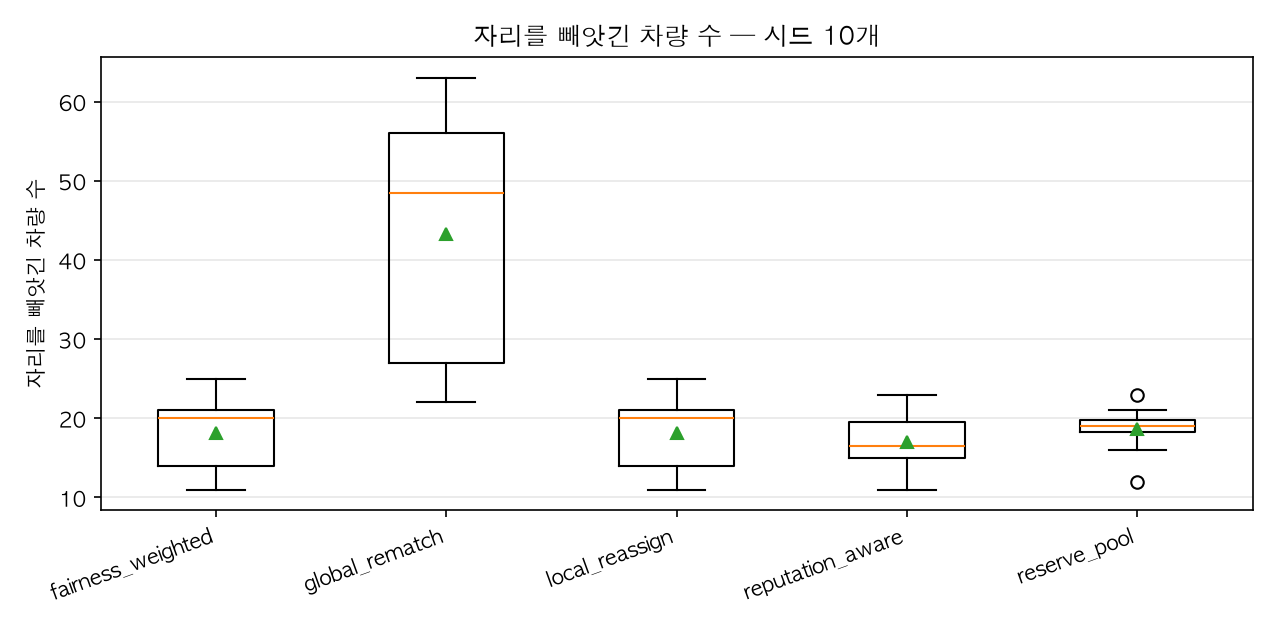
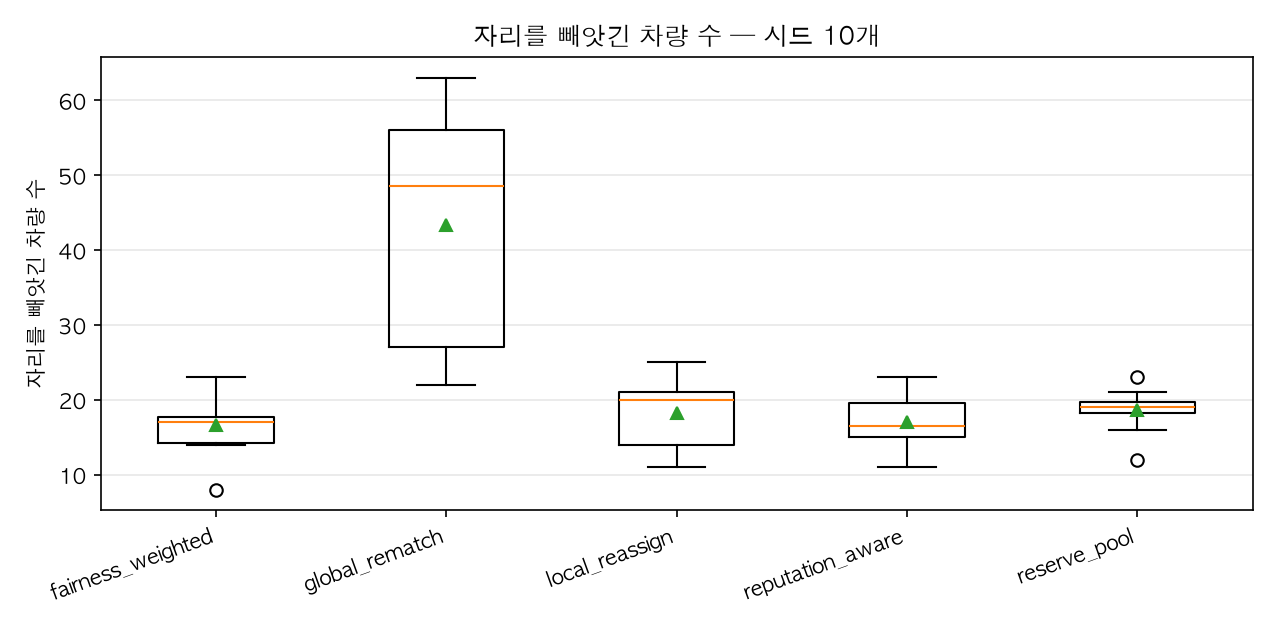
docs: 평판 조건 실험 결과(④) · D-029 (우선권은 자리마다 다른 보정이어야)
- fairness_weighted 를 고치고 다시 돌린 결과를 반영
- repeat_offenders 에서 비로소 세 전략이 갈린다: 피해 차량
  local_reassign 18.2 → reputation_aware 17.0 → fairness_weighted 16.6
- rush_hour 에서는 여전히 사실상 같다 — 이제 버그가 아니라 조건이다

diff --git a/viewer/js/scene.js b/viewer/js/scene.js
@@ -164,11 +164,7 @@ export class Stage {
   follow(getPoint) {
     this._follow = getPoint;
     this._camTween = null;
-    // 진행 중인 시선 이동을 반드시 끈다. 안 끄면 `update()` 에서 그쪽이 나중에
-    // 실행되어 추적 타깃을 덮어쓴다 — 차를 바꿔 클릭하면 카메라가 주차장 한복판을
-    // 한 번 들렀다 간다.
-    this._recenter = null;
-    this._lookTo = null;
+    this._clearMoves();
     this.cameraMode = "follow";
   }
 
@@ -178,6 +174,19 @@ export class Stage {
     this._recenter = { from: this.controls.target.clone(), t: 0 };
   }
 
+  /**
+   * 진행 중인 시선 이동을 전부 끈다.
+   *
+   * **새 목적지를 정할 때는 반드시 먼저 부른다.** `update()` 가 `_lookTo` 보다
+   * `_recenter` 를 나중에 처리하므로, 둘이 함께 살아 있으면 매 프레임 중앙 복귀가
+   * 이긴다 — 차를 따라가다가 사건 줄을 누르면 카메라가 그 자리가 아니라 주차장
+   * 한복판을 보게 된다. 두 번 같은 실수를 했다.
+   */
+  _clearMoves() {
+    this._recenter = null;
+    this._lookTo = null;
+  }
+
   get following() {
     return Boolean(this._follow);
   }
@@ -185,6 +194,7 @@ export class Stage {
   /** 시선을 한 지점으로 부드럽게 옮긴다. 사건이 난 자리를 보여줄 때 쓴다. */
   lookAtPoint(x, y) {
     this.unfollow();
+    this._clearMoves();          // 중앙 복귀는 취소한다 — 갈 곳이 따로 있다
     this._lookTo = { from: this.controls.target.clone(), to: new THREE.Vector3(x, 0, -y), t: 0 };
   }
 

diff --git a/docs/HANDOFF.md b/docs/HANDOFF.md
@@ -111,8 +111,8 @@ python -m sim.experiments.report runs/<run_id>
 | `reserve_pool` | **34.5초** | **63.7초** | 169.6 | **5.2** | 0 |
 | `chain_shift` | 38.3초 | 78.6초 | 178.6 | 5.8 | 2.8 |
 | `local_reassign` | 38.7초 | 80.6초 | **181.0** | 6.1 | 0 |
-| `fairness_weighted` | 38.7초 | 80.6초 | 181.0 | 6.1 | 0 |
 | `reputation_aware` | 38.7초 | 80.6초 | 181.0 | 6.1 | 0 |
+| `fairness_weighted` | 38.8초 | 81.3초 | 180.7 | 6.1 | 0 |
 | **`global_rematch`** (기본) | 42.1초 | 91.5초 | 171.1 | **23.0** | **294.6** |
 
 **기본 전략이 가장 나쁩니다. 그리고 그 이유가 이 연구의 이야기입니다.**
@@ -125,13 +125,13 @@ python -m sim.experiments.report runs/<run_id>
 나도 **남의 예약을 건드리지 않습니다.** 대신 그 예비석만큼 처리량을 잃습니다
 (169.6 vs 181.0). 효율과 안정의 상충이 숫자로 나옵니다.
 
-> ⚠ **셋이 같은 숫자인 것은 버그가 아닙니다.** `local_reassign`·`fairness_weighted`·
-> `reputation_aware` 는 이 조건에서 구분되지 않습니다. 재 봤더니 신뢰도가 떨어진
-> 번호판이 220개 중 7개, **두 번 재배정된 차량은 0대**였습니다 — 평판을 쌓을 재료도
-> 우선권을 줄 상습 피해자도 없습니다. 그래서 `repeat_offenders` 시나리오를 따로
-> 만들었습니다 (같은 번호판이 대여섯 번 드나드는 조건, `runs/repeat-offenders`).
-> 발표에서는 둘을 나란히 놓고 **"평판 기반 전략은 평판이 쌓일 조건에서만 의미가
-> 있다"** 로 말하는 편이 정직합니다.
+> ⚠ **셋이 사실상 같은 숫자인 것은 버그가 아니라 조건 때문입니다.** 재 봤더니
+> 신뢰도가 떨어진 번호판이 220개 중 7개, **두 번 재배정된 차량은 0대**였습니다 —
+> 평판을 쌓을 재료도 우선권을 줄 상습 피해자도 없습니다. `fairness_weighted` 는
+> 10개 시드 중 **9개가 `local_reassign` 과 완전히 동일**하고, 평균이 0.1초 움직인
+> 것은 시드 하나 때문입니다.
+>
+> 그래서 `repeat_offenders` 시나리오를 따로 만들었습니다 — 아래 ④ 입니다.
 
 ### ③ 할당 전략 4종 (`rush_hour`, 900초, 복구는 `global_rematch` 고정)
 
@@ -148,7 +148,30 @@ python -m sim.experiments.report runs/<run_id>
   강할 것이라 봤는데(PLAN 4절), 오히려 피해자가 가장 많습니다(34.4). **재확정 자체가
   예약을 흔들기 때문**이고, `global_rematch` 가 나쁜 이유와 정확히 같습니다.
   이 시뮬레이터가 준 가장 뚜렷한 결론이 이것입니다 — **예약을 흔드는 모든 것이
-  강탈의 기회를 만든다.**
+  강탈의 기회를 만든다.** 복구 쪽의 `global_rematch` 와 할당 쪽의
+  `zone_late_binding` 이 서로 다른 이유로 같은 결론에 도달합니다.
+
+### ④ 평판이 쌓이는 조건 (`repeat_offenders`, 1800초, 재방문 85%, 비협조 50%)
+
+같은 번호판이 하루에 대여섯 번 드나드는 조건입니다. 여기서 비로소 셋이 갈립니다.
+
+| 전략 | 평균 소요 | p95 | 주차 완료 | 피해 차량 | 휘말린 재배치 |
+|---|---|---|---|---|---|
+| `fairness_weighted` | 32.8초 | 75.7초 | 425.0 | **16.6** | 0 |
+| `reputation_aware` | 32.6초 | 73.7초 | 426.0 | 17.0 | 0 |
+| `local_reassign` | **32.3초** | 73.3초 | 427.1 | 18.2 | 0 |
+| `reserve_pool` | 32.3초 | **69.0초** | **430.9** | 18.6 | 0 |
+| **`global_rematch`** (기본) | 35.6초 | 85.5초 | 425.1 | **43.3** | **1121.4** |
+
+**"평판 기반 전략은 평판이 쌓일 조건에서만 의미가 있다"** — 이것이 발표에서 할 수
+있는 가장 정직한 말입니다. `rush_hour` 에서 아무 차이가 없던 두 전략이, 단골이
+많아지자 10개 시드 중 8~9개에서 갈라지고 피해 차량을 줄입니다 —
+`reputation_aware` 가 −7%, `fairness_weighted` 가 **−9%**. 대신 평균 소요를
+0.3~0.5초 내줍니다 —
+**효율을 조금 팔아 최악을 줄이는 거래**이고, 그것이 이 두 전략의 설계 의도입니다.
+
+`global_rematch` 는 여기서 더 나빠집니다. 피해 차량이 **2.4배**, 휘말린 재배치가
+1121건입니다. 사고가 잦아질수록 "모두가 조금씩 양보"의 대가가 초선형으로 커집니다.
 
 ---
 

diff --git a/docs/DECISIONS.md b/docs/DECISIONS.md
@@ -785,3 +785,43 @@
 **누계를 남기는 이유**: 보상의 근거는 "한 번에 얼마나 돌았는가"가 아니라 **"이 사람이
 전부 합쳐 얼마나 손해를 봤는가"**다. `detour_total_m` · `extra_time_total_s` 가
 그 값이고, 정책은 여전히 만들지 않는다 (D-008).
+
+---
+
+## D-029. 우선권은 **자리마다 다른 보정**으로만 표현할 수 있다
+
+날짜: 2026-09-09
+
+**결정**: `fairness_weighted` 의 배정 보정을 상수에서 자리 순위 비례로 바꾼다.
+
+    이전   깎는 양 = step × min(재탐색, 상한)
+    이후   깎는 양 = step × min(재탐색, 상한) × (1 − 도보거리 순위)
+
+**근거**: 이전 식은 **아무 일도 하지 않았다.** 그 상수는 그 차량의 모든 후보 자리에
+똑같이 적용되므로 최소값이 바뀌지 않는다. 게다가 기본 할당 전략은 차량을 한 대씩
+처리해서 차량끼리 비용을 견주지도 않는다 — 상수 보정이 작동할 자리가 아예 없었다.
+
+10개 시드 전부에서 `local_reassign` 과 **바이트 단위로 같은 결과**가 나왔다.
+6종 비교가 실은 5종 비교였다.
+
+**어떻게 알아챘는가**: 표에서 세 전략의 숫자가 같았다. 처음에는 "조건 때문에
+구분이 안 되는 것"으로 넘어갔고, 그 설명은 `reputation_aware` 에 대해서는 **맞았다**
+(재방문이 잦은 조건을 만들자 갈렸다). 하지만 `fairness_weighted` 는 그 조건에서도
+같았다. 조건을 바꿔도 같으면 조건 탓이 아니다.
+
+`reputation_aware` 가 처음부터 작동한 이유가 답이었다 — 그쪽 보정은
+`-appease × (1−신뢰도) × (1−순위)` 로 **자리에 의존한다.**
+
+**측정** (`repeat_offenders`, 시드 10개, 1800초)
+
+| | 고치기 전 | 고친 뒤 |
+|---|---|---|
+| `local_reassign` 과 다른 시드 | 0 / 10 | **9 / 10** |
+| 피해 차량 | 18.2 (= `local_reassign`) | **16.6** |
+| 평균 소요 | 32.3초 | 32.8초 |
+
+효율을 조금 팔아 최악을 줄인다 — 이 전략의 설계 의도 그대로다.
+
+**남은 한계**: `rush_hour` 에서는 고친 뒤에도 10개 시드 중 9개가 `local_reassign`
+과 같다. 재탐색을 두 번 이상 당한 차량이 없어 보정이 대부분 0 이기 때문이다.
+이것은 이제 버그가 아니라 **조건**이다.

diff --git a/runs/recovery-matrix/report.md b/runs/recovery-matrix/report.md
@@ -6,7 +6,7 @@
 | 전략 | 평균 주차소요(초) | p95 주차소요(초) | 평균 우회(m) | p95 우회(m) | 주차 완료(대) | 피해 차량(대) | 재배정 | 휘말린 재배치 | 강제 합류 |
 |---|---|---|---|---|---|---|---|---|---|
 | chain_shift | 38.3 ± 3.9 | 78.6 ± 16.7 | 0.9 ± 0.9 | 2.9 ± 3.3 | 178.6 ± 6.9 | 5.8 ± 2.0 | 6.3 ± 2.8 | 2.8 ± 1.1 | 256.3 ± 38.4 |
-| fairness_weighted | 38.7 ± 4.2 | 80.6 ± 20.6 | 0.5 ± 0.7 | 1.7 ± 0.4 | 181.0 ± 7.6 | 6.1 ± 3.4 | 6.1 ± 3.4 | 0.0 | 264.4 ± 50.7 |
+| fairness_weighted | 38.8 ± 4.2 | 81.3 ± 20.5 | 0.5 ± 0.7 | 1.6 ± 0.4 | 180.7 ± 7.7 | 6.1 ± 3.4 | 6.1 ± 3.4 | 0.0 | 265.9 ± 50.8 |
 | global_rematch | 42.1 ± 4.5 | 91.5 ± 20.5 | 9.2 ± 4.2 | 62.9 ± 32.7 | 171.1 ± 5.4 | 23.0 ± 7.1 | 25.5 ± 7.5 | 294.6 ± 155.0 | 245.0 ± 41.1 |
 | local_reassign | 38.7 ± 4.2 | 80.6 ± 20.6 | 0.5 ± 0.7 | 1.7 ± 0.4 | 181.0 ± 7.6 | 6.1 ± 3.4 | 6.1 ± 3.4 | 0.0 | 264.4 ± 50.7 |
 | reputation_aware | 38.7 ± 4.2 | 80.6 ± 20.6 | 0.5 ± 0.7 | 1.7 ± 0.4 | 181.0 ± 7.6 | 6.1 ± 3.4 | 6.1 ± 3.4 | 0.0 | 264.4 ± 50.7 |

diff --git a/runs/repeat-offenders/report.md b/runs/repeat-offenders/report.md
@@ -6,7 +6,7 @@
 
 | 전략 | 평균 주차소요(초) | p95 주차소요(초) | 평균 우회(m) | p95 우회(m) | 주차 완료(대) | 피해 차량(대) | 재배정 | 휘말린 재배치 | 강제 합류 |
 |---|---|---|---|---|---|---|---|---|---|
-| fairness_weighted | 32.3 ± 2.3 | 73.3 ± 19.7 | 0.5 ± 0.3 | 1.5 ± 0.2 | 427.1 ± 16.8 | 18.2 ± 4.8 | 19.5 ± 5.4 | 0.0 | 273.7 ± 70.6 |
+| fairness_weighted | 32.8 ± 2.4 | 75.7 ± 18.4 | 0.4 ± 0.2 | 1.5 ± 0.2 | 425.0 ± 17.4 | 16.6 ± 4.4 | 17.5 ± 4.9 | 0.0 | 289.8 ± 91.4 |
 | global_rematch | 35.6 ± 4.2 | 85.5 ± 23.9 | 8.0 ± 4.2 | 67.6 ± 32.1 | 425.1 ± 22.0 | 43.3 ± 15.5 | 57.6 ± 22.9 | 1121.4 ± 547.9 | 312.7 ± 99.7 |
 | local_reassign | 32.3 ± 2.3 | 73.3 ± 19.7 | 0.5 ± 0.3 | 1.5 ± 0.2 | 427.1 ± 16.8 | 18.2 ± 4.8 | 19.5 ± 5.4 | 0.0 | 273.7 ± 70.6 |
 | reputation_aware | 32.6 ± 2.6 | 73.7 ± 20.8 | 0.4 ± 0.2 | 1.4 ± 0.3 | 426.0 ± 16.2 | 17.0 ± 3.6 | 18.0 ± 4.1 | 0.0 | 281.8 ± 68.4 |
